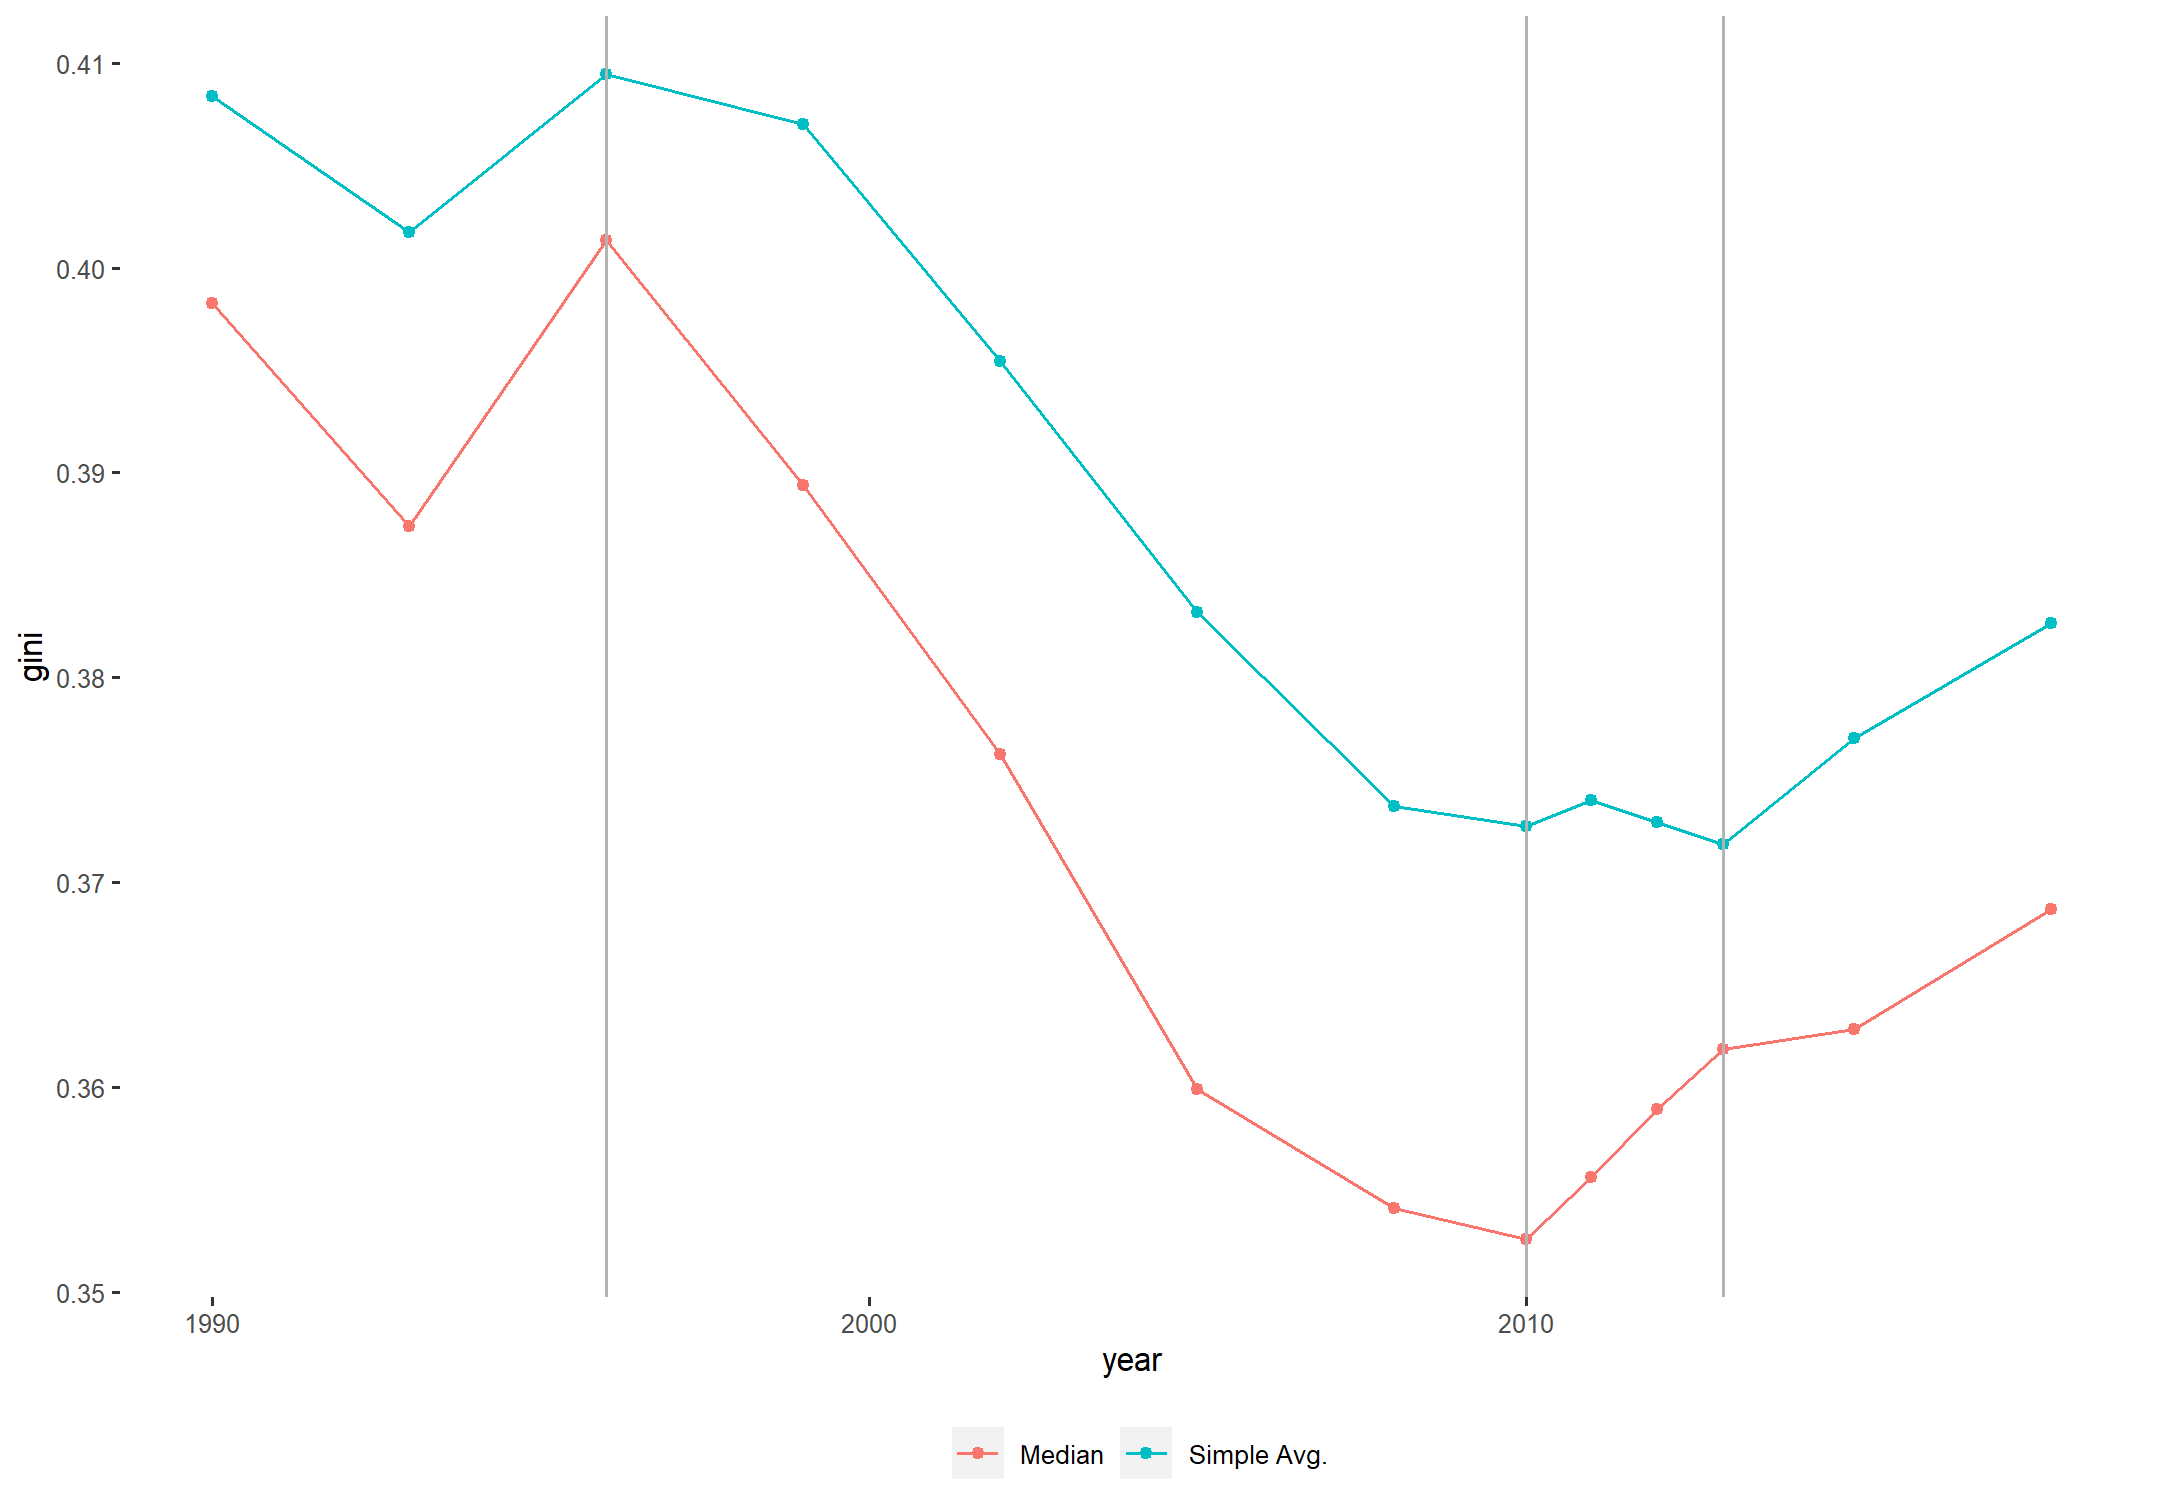
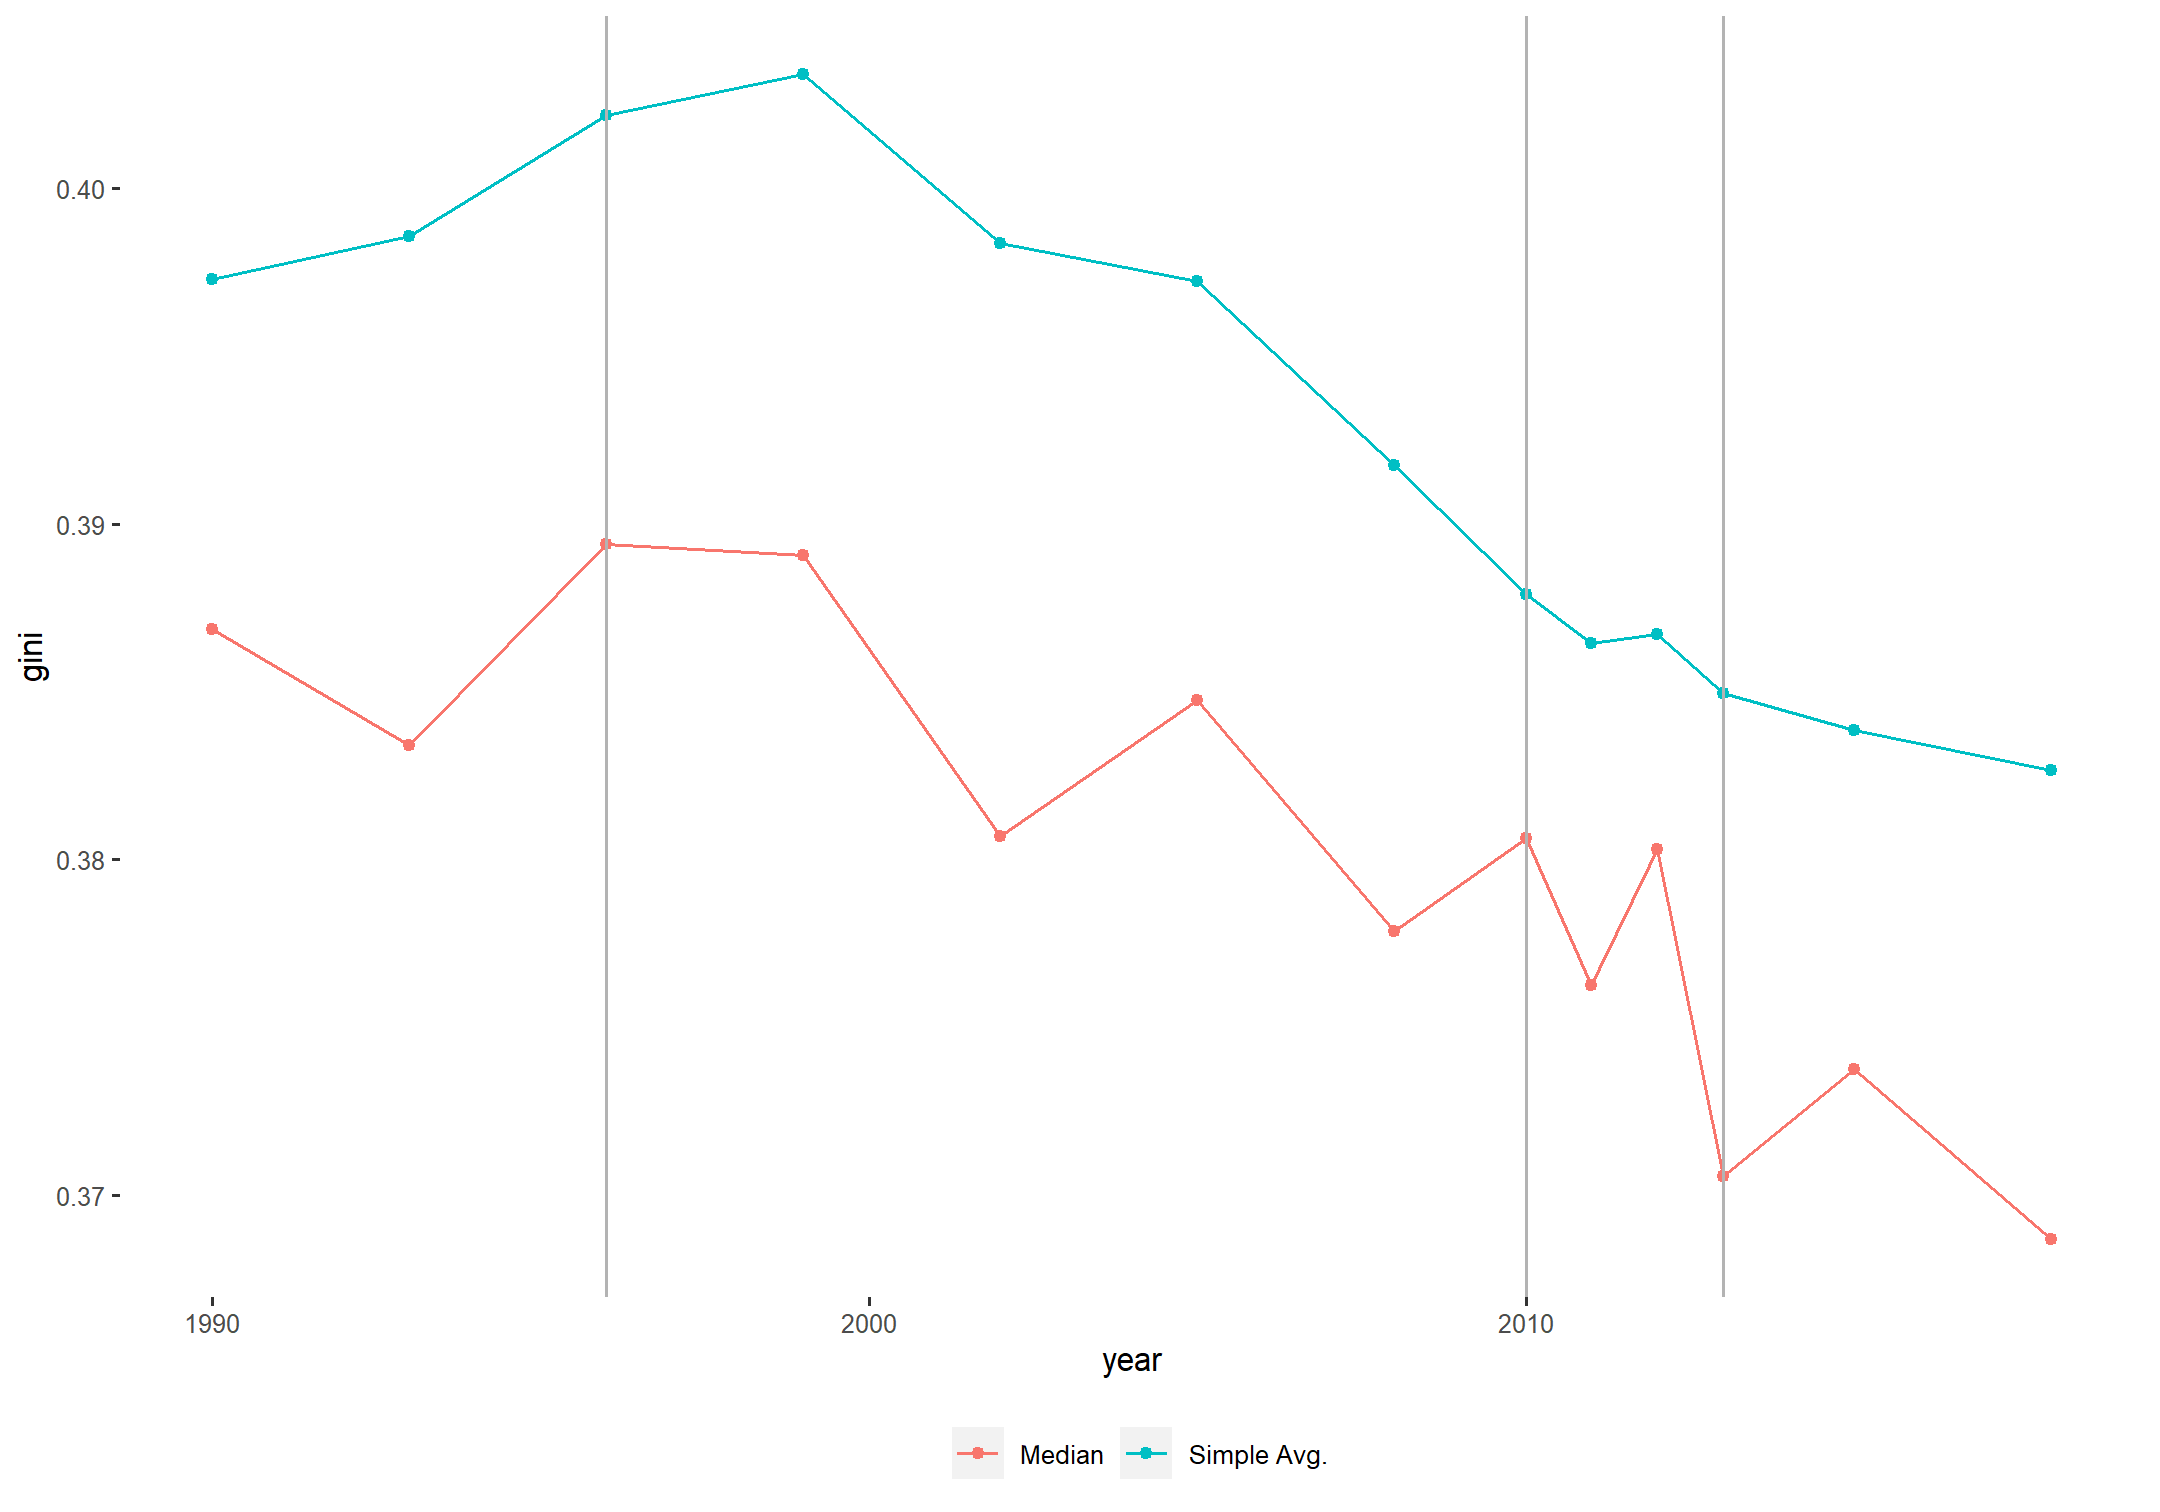
update p9010

diff --git a/SDG10_slides/SDG_10.html b/SDG10_slides/SDG_10.html
@@ -31,12 +31,82 @@ background-size: cover
 ]
 
 ---
+.left-column[
+.small[When we look at the trends at the region level, it is not very clear where the action is happening]
+]
+.right-column[
+&lt;img src="SDG_10_files/figure-html/giniregs-1.png" width="720" /&gt;
+]
+---
 
 .left-column[
-bla bla bla
+.small[SO, let's look at in a differnet way]
 ]
 .right-column[
 &lt;img src="SDG_10_files/figure-html/gini45-1.png" width="720" /&gt;
+]
+
+---
+.left-column[
+.small[LAC is the region that consistently has reduced inequality in most countries. This makes sense because inequality is measured with income-based welfare, which is by definition higher than consumption-based welfare,  so there is more room to improve. ]
+]
+.right-column[
+&lt;img src="SDG_10_files/figure-html/gini45lac-1.png" width="720" /&gt;
+]
+
+---
+.left-column[
+.small[When we look at other regions, we don't find the same patterns.]
+]
+.right-column[
+&lt;img src="SDG_10_files/figure-html/gini45SSA-1.png" width="720" /&gt;
+]
+
+---
+.left-column[
+.small[When we look at other regions, we don't find the same patterns.]
+]
+.right-column[
+&lt;img src="SDG_10_files/figure-html/gini45EAP-1.png" width="720" /&gt;
+]
+
+---
+class: inverse
+## Another way to see inequality
+---
+
+
+
+.left-column[
+.small[Here, countries are organized by their median, from lowest to highest. The length of the bars is the monetary distance between the 90th to the 10th percentiles. It seems that there is more inequality within the rich countries than within poor countries, as the length of the bars is way higher among the former than among the latter.]
+]
+.right-column[
+&lt;img src="SDG_10_files/figure-html/p1090g-1.png" width="720" /&gt;
+]
+
+---
+.left-column[
+.small[Yet, that is a visual ilusion because the 90th/10th relation is generally higher in poorer countries than in rich countries.]
+]
+.right-column[
+&lt;img src="SDG_10_files/figure-html/p1090g2-1.png" width="720" /&gt;
+]
+
+---
+.left-column[
+.small[Yet, that is a visual ilusion because the 90th/10th relation is generally higher in poorer countries than in rich countries.]
+]
+.right-column[
+&lt;img src="SDG_10_files/figure-html/p1090gl-1.png" width="720" /&gt;
+]
+
+---
+
+.left-column[
+.small[See for instance the case of... and ]
+]
+.right-column[
+&lt;img src="SDG_10_files/figure-html/p1090gl2-1.png" width="720" /&gt;
 ]
     </textarea>
 <style data-target="print-only">@media screen {.remark-slide-container{display:block;}.remark-slide-scaler{box-shadow:none;}}</style>
